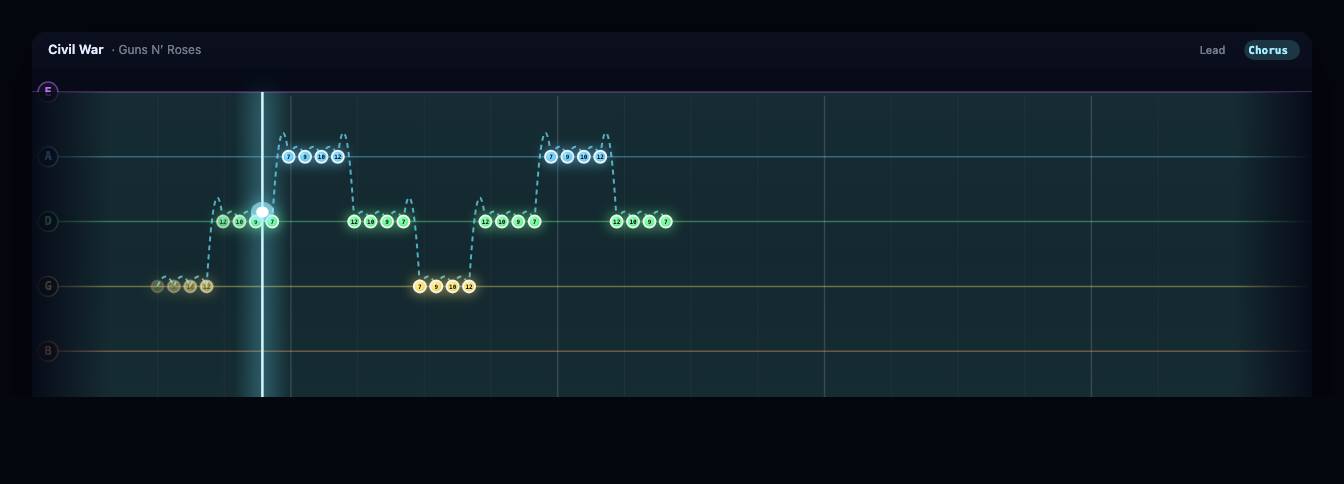
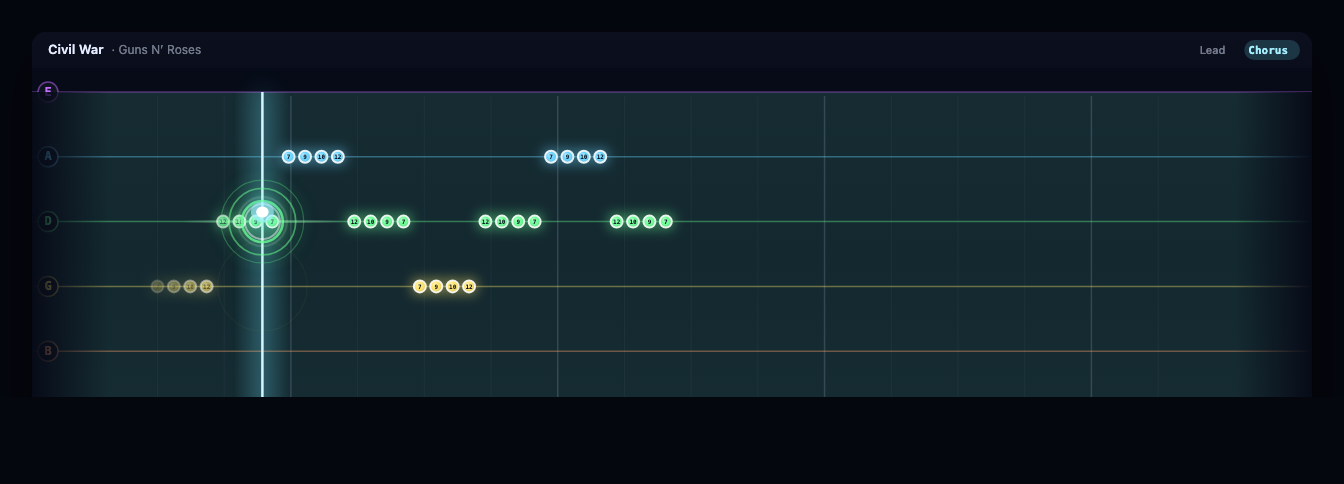
feat: impact rings, hide trajectory arcs, refresh screenshots
Two plugin changes rolled up:

- Impact rings: each note crossing the hit line fires an expanding
  colored ring + inner white pop + 120ms horizontal string flash,
  anchored at the hit line for ~450ms. Chord hits burst every
  string at once.
- Trajectory arcs hidden: the dashed cyan curves cluttered the
  view. state.arcs is still computed and drawBall still rides the
  trajectories, so the ball keeps hopping between notes — we just
  don't visualize the path.

Screenshots regenerated from the demo harness to match the new
rendering (fast.png visibly shows an impact ring active on the
note currently at the hit line).

Changed region(s): [[0.1562, 0.3719, 0.25, 0.5269], [0.125, 0.5579, 0.1562, 0.5888]]

diff --git a/screen.js b/screen.js
@@ -7,6 +7,7 @@
     const HIT_LINE_FRAC = 0.18;
     const FADE_SECONDS = 1.0;
     const SQUASH_WINDOW_MS = 60;
+    const IMPACT_DURATION = 0.45;   // seconds — ring expansion after a note crosses the hit line
     const TOP_PAD = 60;           // room for header strip
     const BOTTOM_PAD = 36;        // room for progress bar
     const HIT_ZONE_WIDTH = 56;    // wide glowing strip around hit line
@@ -934,6 +935,76 @@
         ctx.restore();
     }
 
+    // Impact rings — when a note crosses the hit line, fire a ring that
+    // stays anchored at (hitX, string y) and expands outward while fading,
+    // colored to match the string. Gives the "I hit that one" feedback.
+    // Also draws a brief full-string flash line so the impact feels like
+    // it energises the string.
+    function drawImpacts(W, H, nStrings, colors, now) {
+        if (!state.ready || !state.notes.length) return;
+        const { start, end } = binaryVisibleRange(state.notes, now);
+        const hitX = W * HIT_LINE_FRAC;
+
+        for (let i = start; i < end; i++) {
+            const n = state.notes[i];
+            if (n.s < 0 || n.s >= nStrings) continue;
+            const dt = now - n.t;
+            if (dt < 0 || dt >= IMPACT_DURATION) continue;
+
+            // Ease-out curve: starts fast, slows down. Good for impacts.
+            const p = dt / IMPACT_DURATION;
+            const ease = 1 - Math.pow(1 - p, 2);
+            const y = yFor(n.s, H, nStrings);
+            const color = colors[n.s];
+
+            // Expanding ring: grows from noteR out to ~3.2x, alpha fades
+            const baseR = 14;
+            const r = baseR * (1 + ease * 2.2);
+            const alpha = (1 - p) * 0.85;
+
+            ctx.save();
+            ctx.globalAlpha = alpha;
+            ctx.strokeStyle = color;
+            ctx.lineWidth = 3 - ease * 2;  // thick → thin
+            ctx.shadowColor = color;
+            ctx.shadowBlur = 18;
+            ctx.beginPath();
+            ctx.arc(hitX, y, r, 0, Math.PI * 2);
+            ctx.stroke();
+
+            // Secondary inner ring in white for extra pop on fresh hits
+            if (p < 0.5) {
+                ctx.globalAlpha = (1 - p * 2) * 0.6;
+                ctx.strokeStyle = '#ffffff';
+                ctx.shadowBlur = 10;
+                ctx.lineWidth = 2;
+                ctx.beginPath();
+                ctx.arc(hitX, y, baseR * (1 + ease * 1.2), 0, Math.PI * 2);
+                ctx.stroke();
+            }
+
+            // Horizontal string flash — a bright streak along the string
+            // for ~120ms, like plucking the string.
+            if (p < 0.3) {
+                const flashAlpha = (1 - p / 0.3) * 0.7;
+                ctx.shadowBlur = 0;
+                ctx.globalAlpha = flashAlpha;
+                const flashGrad = ctx.createLinearGradient(hitX - 80, 0, hitX + 80, 0);
+                flashGrad.addColorStop(0, 'rgba(255, 255, 255, 0)');
+                flashGrad.addColorStop(0.5, color);
+                flashGrad.addColorStop(1, 'rgba(255, 255, 255, 0)');
+                ctx.strokeStyle = flashGrad;
+                ctx.lineWidth = 3;
+                ctx.beginPath();
+                ctx.moveTo(hitX - 80, y);
+                ctx.lineTo(hitX + 80, y);
+                ctx.stroke();
+            }
+
+            ctx.restore();
+        }
+    }
+
     // Bend indicators — a bright vertical arrow above any note with bn > 0,
     // labeled with the bend amount in standard tab notation. Rendered on
     // top of notes (both normal fret circles and fused capsules) so it's
@@ -1082,11 +1153,14 @@
 
         drawBackground(W, H, nStrings, colors, now);
         drawSustains(W, H, nStrings, colors, now);
-        drawArcs(W, H, nStrings, colors, now);
+        // drawArcs (dashed trajectory curves) intentionally omitted — the
+        // ball still hops along the underlying state.arcs data, we just
+        // don't visualize the path.
         drawTechniquePairs(W, H, nStrings, colors, now);
         drawTechniqueArcs(W, H, nStrings, colors, now);
         drawNotes(W, H, nStrings, colors, now);
         drawBends(W, H, nStrings, colors, now);
+        drawImpacts(W, H, nStrings, colors, now);
         drawBall(W, H, nStrings, colors, now);
         drawEdgeFade(W, H);
         drawHeader(W, H, now);
